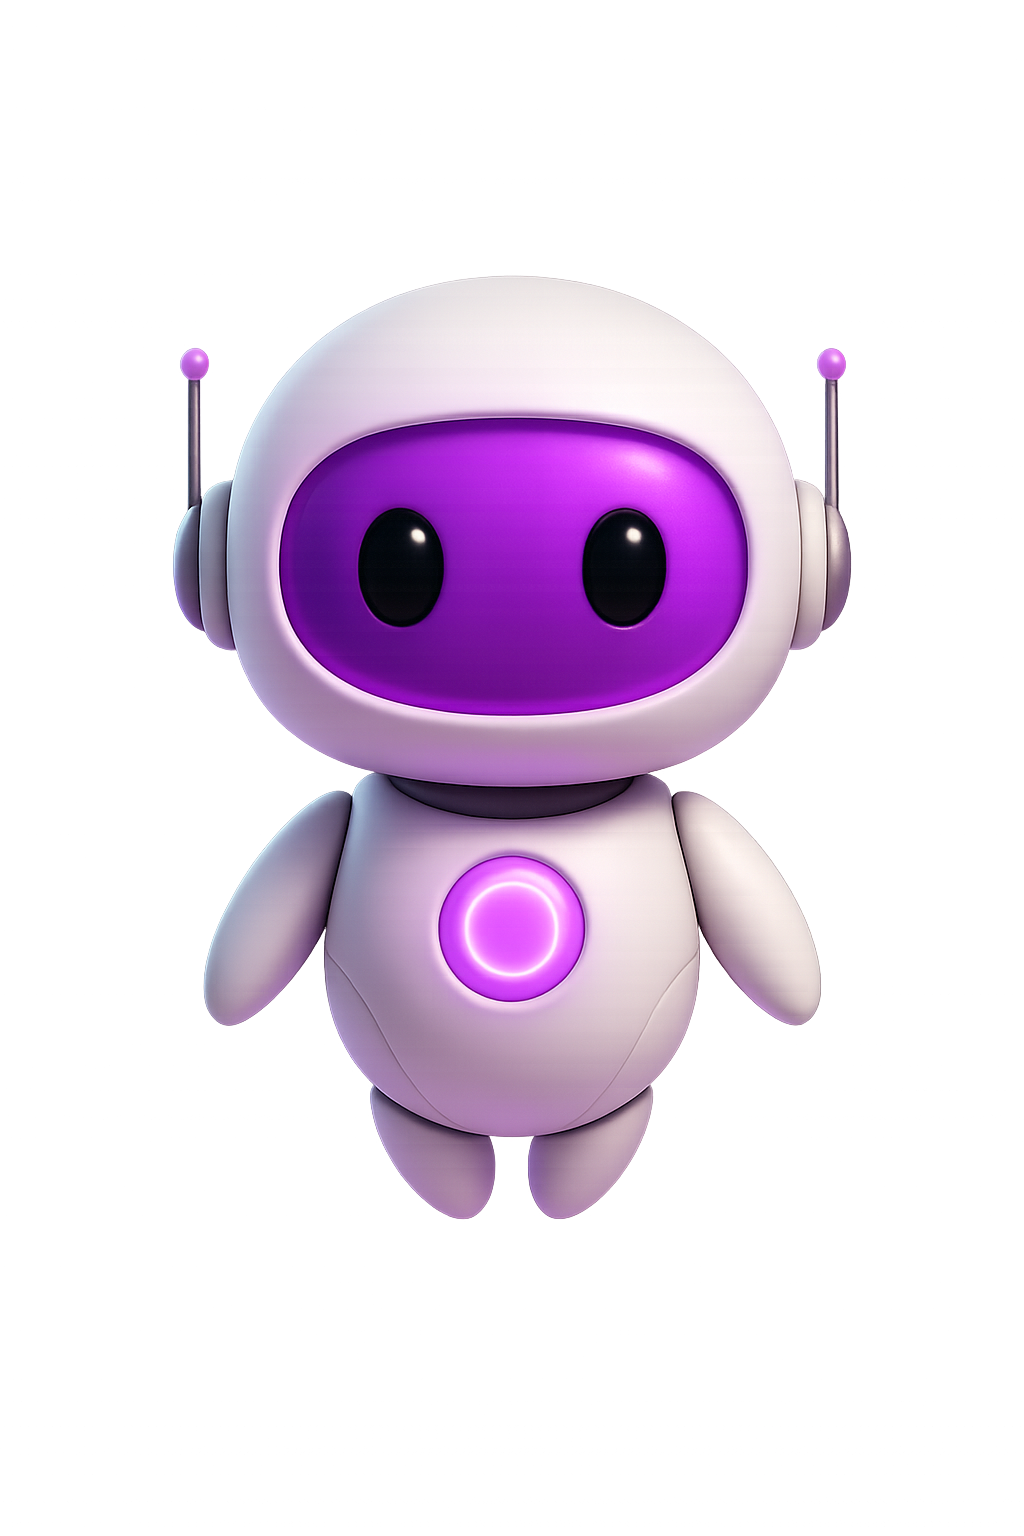
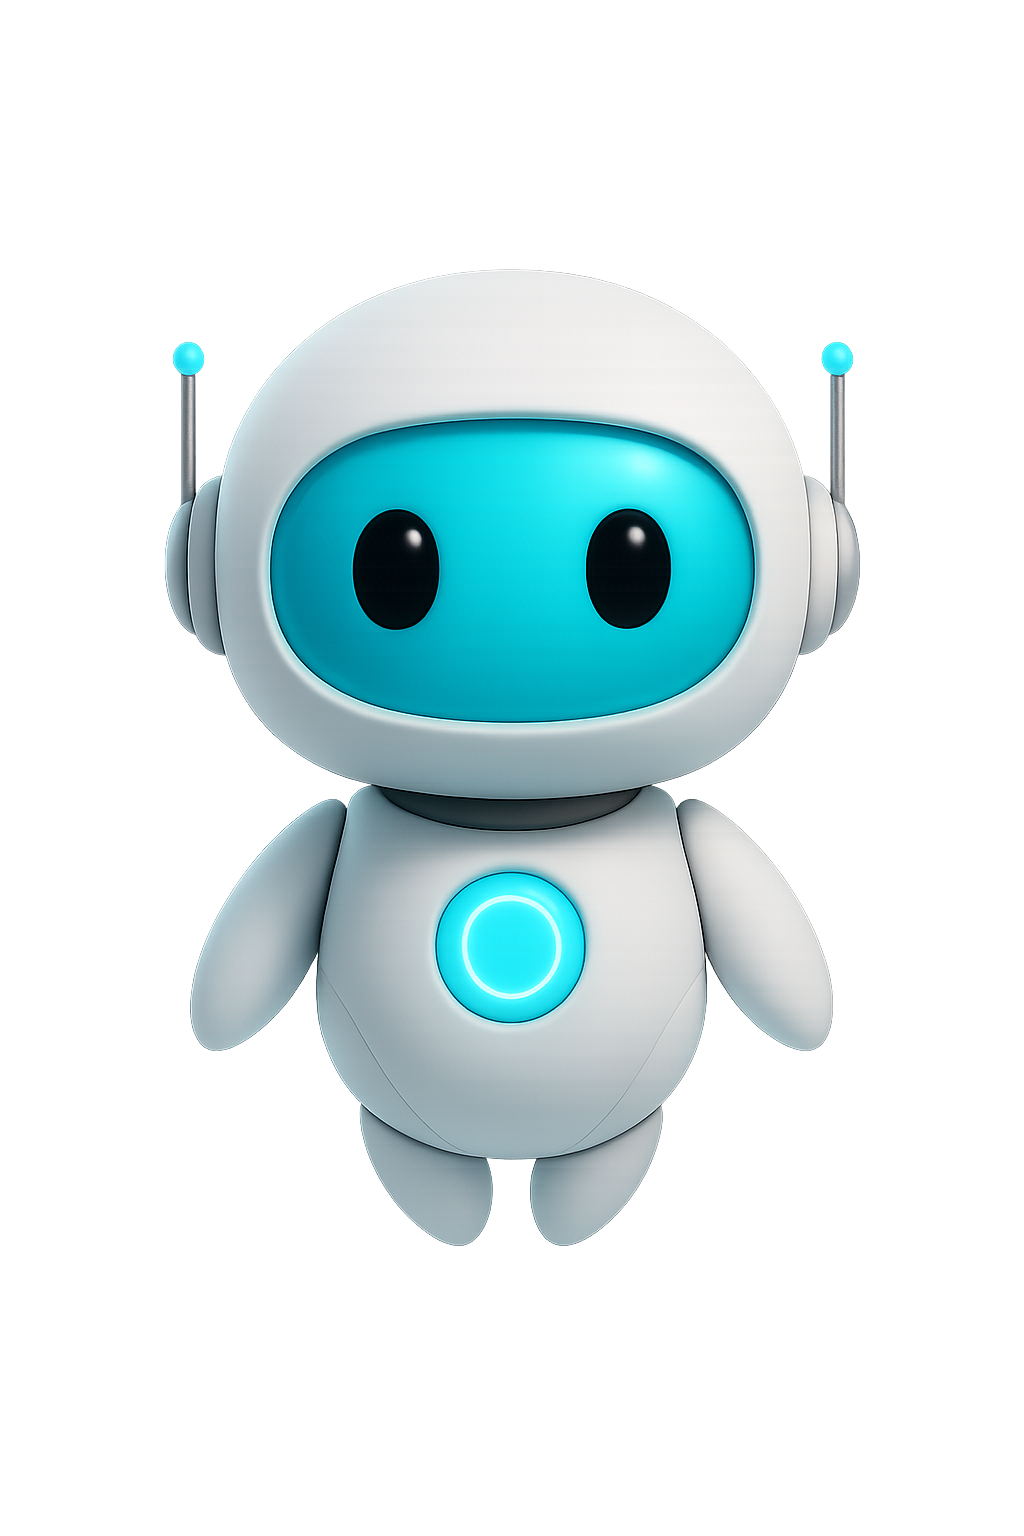
Add files via upload

Changed region(s): [[0.1562, 0.2188, 0.8438, 0.8125], [0.3125, 0.1875, 0.4062, 0.2188], [0.4062, 0.1562, 0.4375, 0.1875]]

diff --git a/styles.css b/styles.css
@@ -16,7 +16,7 @@ body {
 .container {
     min-height: 100vh;
     width: 100%;
-    background: linear-gradient(135deg, #E5D9F2 0%, #F5EEF8 100%);
+    background: linear-gradient(135deg, #E0F7FA 0%, #F0FDFF 100%);
     display: flex;
     justify-content: center;
     align-items: center;
@@ -44,10 +44,10 @@ body {
 .title {
     font-size: 42px;
     font-weight: 800;
-    color: #7C3AED;
+    color: #00ACC1;
     text-align: center;
     letter-spacing: -0.5px;
-    text-shadow: 0 4px 12px rgba(124, 58, 237, 0.3);
+    text-shadow: 0 4px 12px rgba(0, 188, 212, 0.3);
     margin: 0;
 }
 
@@ -65,7 +65,7 @@ body {
     max-width: 300px;
     width: 100%;
     height: auto;
-    filter: drop-shadow(0 10px 30px rgba(124, 58, 237, 0.4));
+    filter: drop-shadow(0 10px 30px rgba(0, 188, 212, 0.4));
     animation: float 3s ease-in-out infinite;
 }
 
@@ -79,7 +79,7 @@ body {
 .subtitle {
     font-size: 22px;
     font-weight: 600;
-    color: #6D28D9;
+    color: #0097A7;
     margin-bottom: 12px;
 }
 
@@ -106,7 +106,7 @@ body {
     align-items: center;
     justify-content: center;
     gap: 10px;
-    background: linear-gradient(90deg, #9333EA 0%, #7C3AED 100%);
+    background: linear-gradient(90deg, #00BCD4 0%, #00ACC1 100%);
     color: white;
     border: none;
     border-radius: 25px;
@@ -114,19 +114,19 @@ body {
     font-size: 18px;
     font-weight: 600;
     cursor: pointer;
-    box-shadow: 0 10px 25px rgba(124, 58, 237, 0.4);
+    box-shadow: 0 10px 25px rgba(0, 188, 212, 0.4);
     transition: all 0.3s ease;
     -webkit-tap-highlight-color: transparent;
 }
 
 .get-started-btn:hover {
     transform: translateY(-2px);
-    box-shadow: 0 15px 35px rgba(124, 58, 237, 0.5);
+    box-shadow: 0 15px 35px rgba(0, 188, 212, 0.5);
 }
 
 .get-started-btn:active {
     transform: translateY(0);
-    box-shadow: 0 5px 15px rgba(124, 58, 237, 0.4);
+    box-shadow: 0 5px 15px rgba(0, 188, 212, 0.4);
 }
 
 /* Login Button */
@@ -135,7 +135,7 @@ body {
     align-items: center;
     justify-content: center;
     gap: 10px;
-    background: linear-gradient(90deg, #9333EA 0%, #7C3AED 100%);
+    background: linear-gradient(90deg, #00BCD4 0%, #00ACC1 100%);
     color: white;
     border: none;
     border-radius: 25px;
@@ -143,19 +143,19 @@ body {
     font-size: 18px;
     font-weight: 600;
     cursor: pointer;
-    box-shadow: 0 10px 25px rgba(124, 58, 237, 0.4);
+    box-shadow: 0 10px 25px rgba(0, 188, 212, 0.4);
     transition: all 0.3s ease;
     -webkit-tap-highlight-color: transparent;
 }
 
 .login-btn:hover {
     transform: translateY(-2px);
-    box-shadow: 0 15px 35px rgba(124, 58, 237, 0.5);
+    box-shadow: 0 15px 35px rgba(0, 188, 212, 0.5);
 }
 
 .login-btn:active {
     transform: translateY(0);
-    box-shadow: 0 5px 15px rgba(124, 58, 237, 0.4);
+    box-shadow: 0 5px 15px rgba(0, 188, 212, 0.4);
 }
 
 .airplane-icon,

diff --git a/app.js b/app.js
@@ -39,11 +39,11 @@ function showNotification(message) {
         top: 20px;
         left: 50%;
         transform: translateX(-50%);
-        background: linear-gradient(90deg, #9333EA 0%, #7C3AED 100%);
+        background: linear-gradient(90deg, #00BCD4 0%, #00ACC1 100%);
         color: white;
         padding: 15px 30px;
         border-radius: 20px;
-        box-shadow: 0 10px 25px rgba(124, 58, 237, 0.4);
+        box-shadow: 0 10px 25px rgba(0, 188, 212, 0.4);
         font-size: 16px;
         font-weight: 600;
         z-index: 1000;

diff --git a/index.html b/index.html
@@ -5,7 +5,7 @@
     <meta name="viewport" content="width=device-width, initial-scale=1.0, maximum-scale=1.0, user-scalable=no">
     <meta name="apple-mobile-web-app-capable" content="yes">
     <meta name="apple-mobile-web-app-status-bar-style" content="black-translucent">
-    <meta name="theme-color" content="#8B5CF6">
+    <meta name="theme-color" content="#00BCD4">
     <title>Travel Agent</title>
     <link rel="stylesheet" href="styles.css">
     <link rel="manifest" href="manifest.json">
